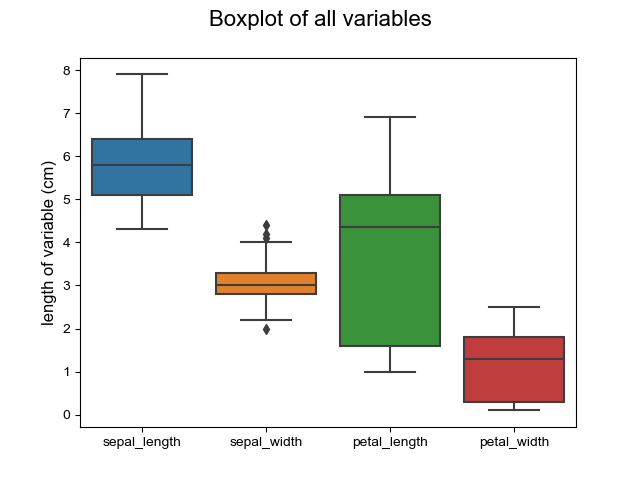
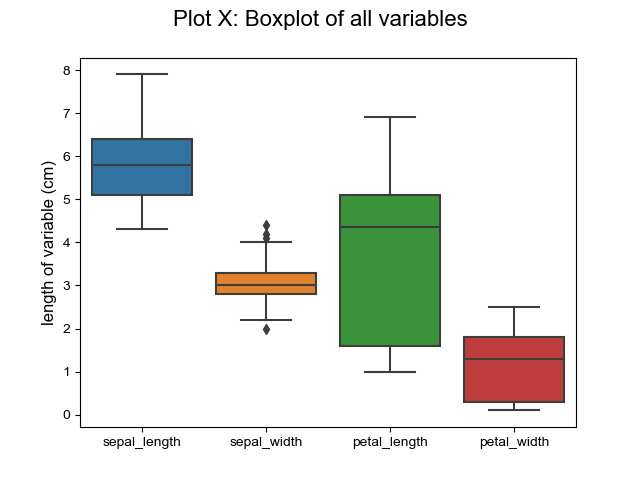
test

Changed region(s): [[0.25, 0.0, 0.75, 0.0625]]

diff --git a/Project/analysis.py b/Project/analysis.py
@@ -63,7 +63,7 @@ def scatter_plot():
 
     fig, axes = plt.subplots(2, 3, figsize=(22, 14))
     plt.subplots_adjust(wspace=0.2,hspace=0.2)#  hspace=0.3
-    fig.suptitle('Scatter Plot of all variables (Units = cm)',fontsize = 25)
+    fig.suptitle('Plot X: Scatter Plot of all variables (Units = cm)',fontsize = 25)
     
     sns.scatterplot(ax=axes[0, 0], data=iris_df, x='petal_length', y='petal_width', hue = 'species',legend = False)
     sns.scatterplot(ax=axes[0, 1], data=iris_df, x='petal_length', y='sepal_length',hue = 'species',legend = False)
@@ -88,8 +88,8 @@ def scatter_plot():
 
 def plot_histograms():
 
-    fig, axes = plt.subplots(2, 2, figsize=(22, 14))
-    fig.suptitle('Histogram of all variables (Units = cm)',fontsize = 25)
+    fig, axes = plt.subplots(2, 2, figsize=(30, 22))
+    fig.suptitle('Plot X: Histogram of all variables (Units = cm)',fontsize = 25)
 
     sns.histplot(ax=axes[0, 0], data=iris_df, x='petal_length', hue = 'species', bins = 20, legend = False)
     sns.histplot(ax=axes[0, 1], data=iris_df, x='petal_width',  hue = 'species', bins = 20, legend = False)
@@ -113,7 +113,7 @@ def plot_box_plot():
     # reference: https://www.python-graph-gallery.com/30-basic-boxplot-with-seaborn
 
     ax = sns.boxplot(data = iris_df.loc[:, ['sepal_length', 'sepal_width', 'petal_length', 'petal_width']])
-    plt.suptitle('Boxplot of all variables',fontsize = 16)
+    plt.suptitle('Plot X: Boxplot of all variables',fontsize = 16)
     ax.set_ylabel('length of variable (cm)', fontsize=12) 
     sns.set(style="darkgrid")
     

diff --git a/Project/README.md b/Project/README.md
@@ -192,20 +192,15 @@ __Descriptive Statistical Analysis__ [] <br/>
 
 
 
-<div align="center">
+
 | <img src="Images/summary_traits.png"  width="525"/>|
 |----------|
 | Fig 7.|
-</div>
 
 
 
-
-<p align="center">
-  <img src="Images/box_plot.png" width="650" />
-</p>  
-Fig X.
-
+  <img src="Images/box_plot.png" width="700" />
+  
 
 <br/>
 <br/>
@@ -214,15 +209,13 @@ Fig X.
 <p align="center">
   <img src="Images/histograms.png" width="2000" />
 </p>  
-Fig X.
-
 
 <br/>
 <br/>
 
 
 <img src="Images/scatter_plots.png"  width="2000"/>
- Fig X.
+
 
 <br/>
 <br/>
